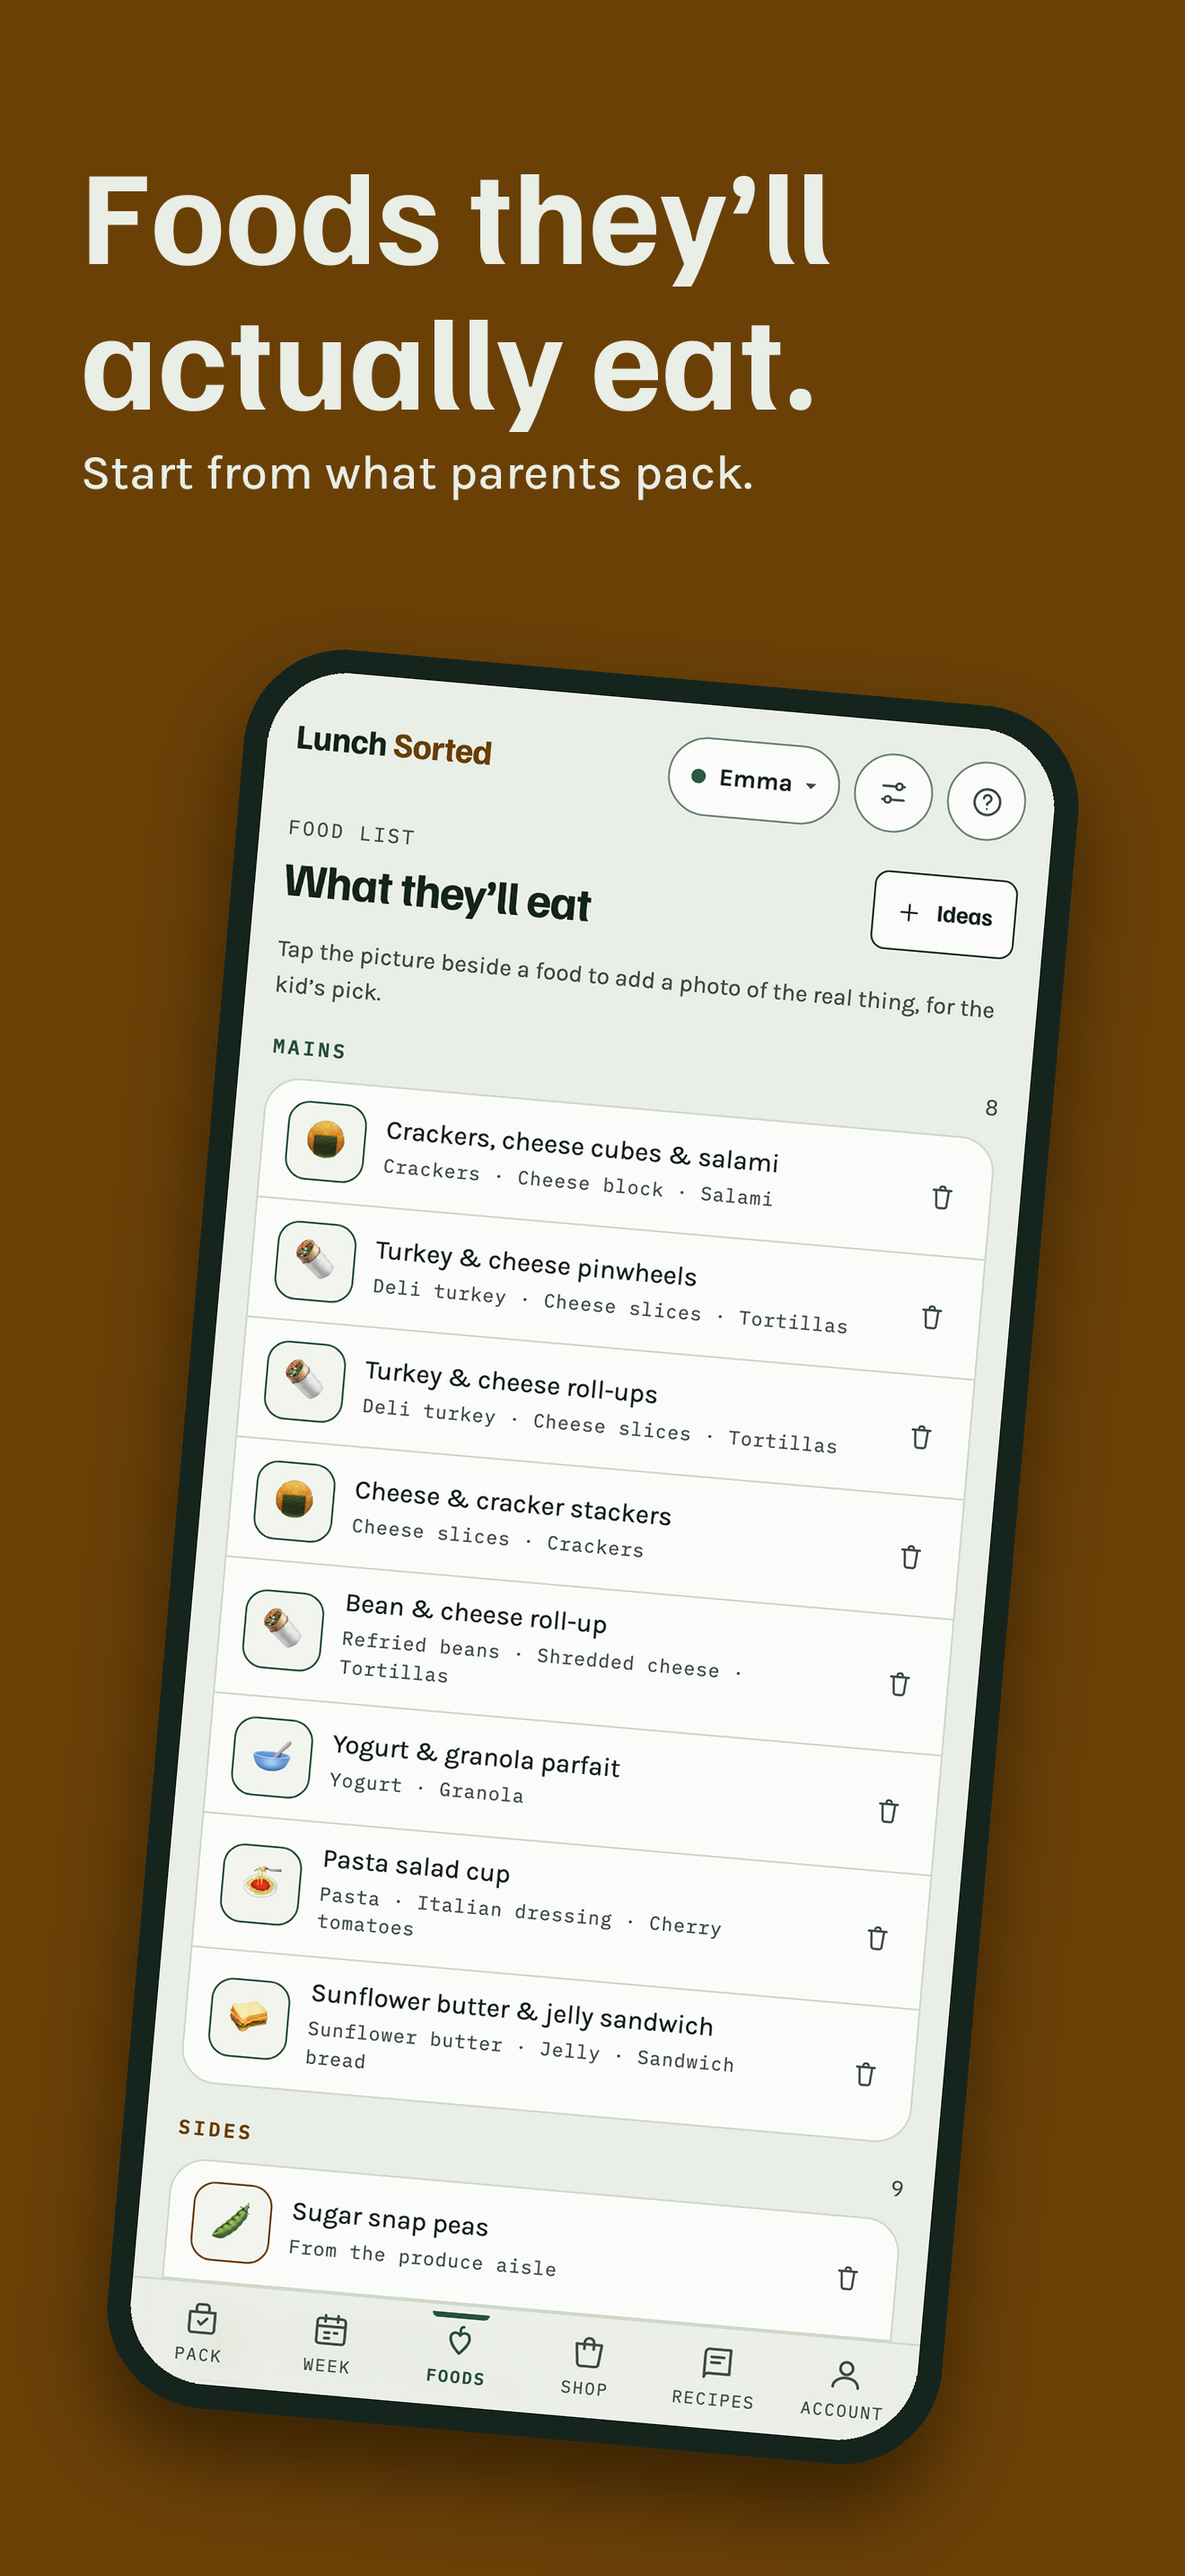
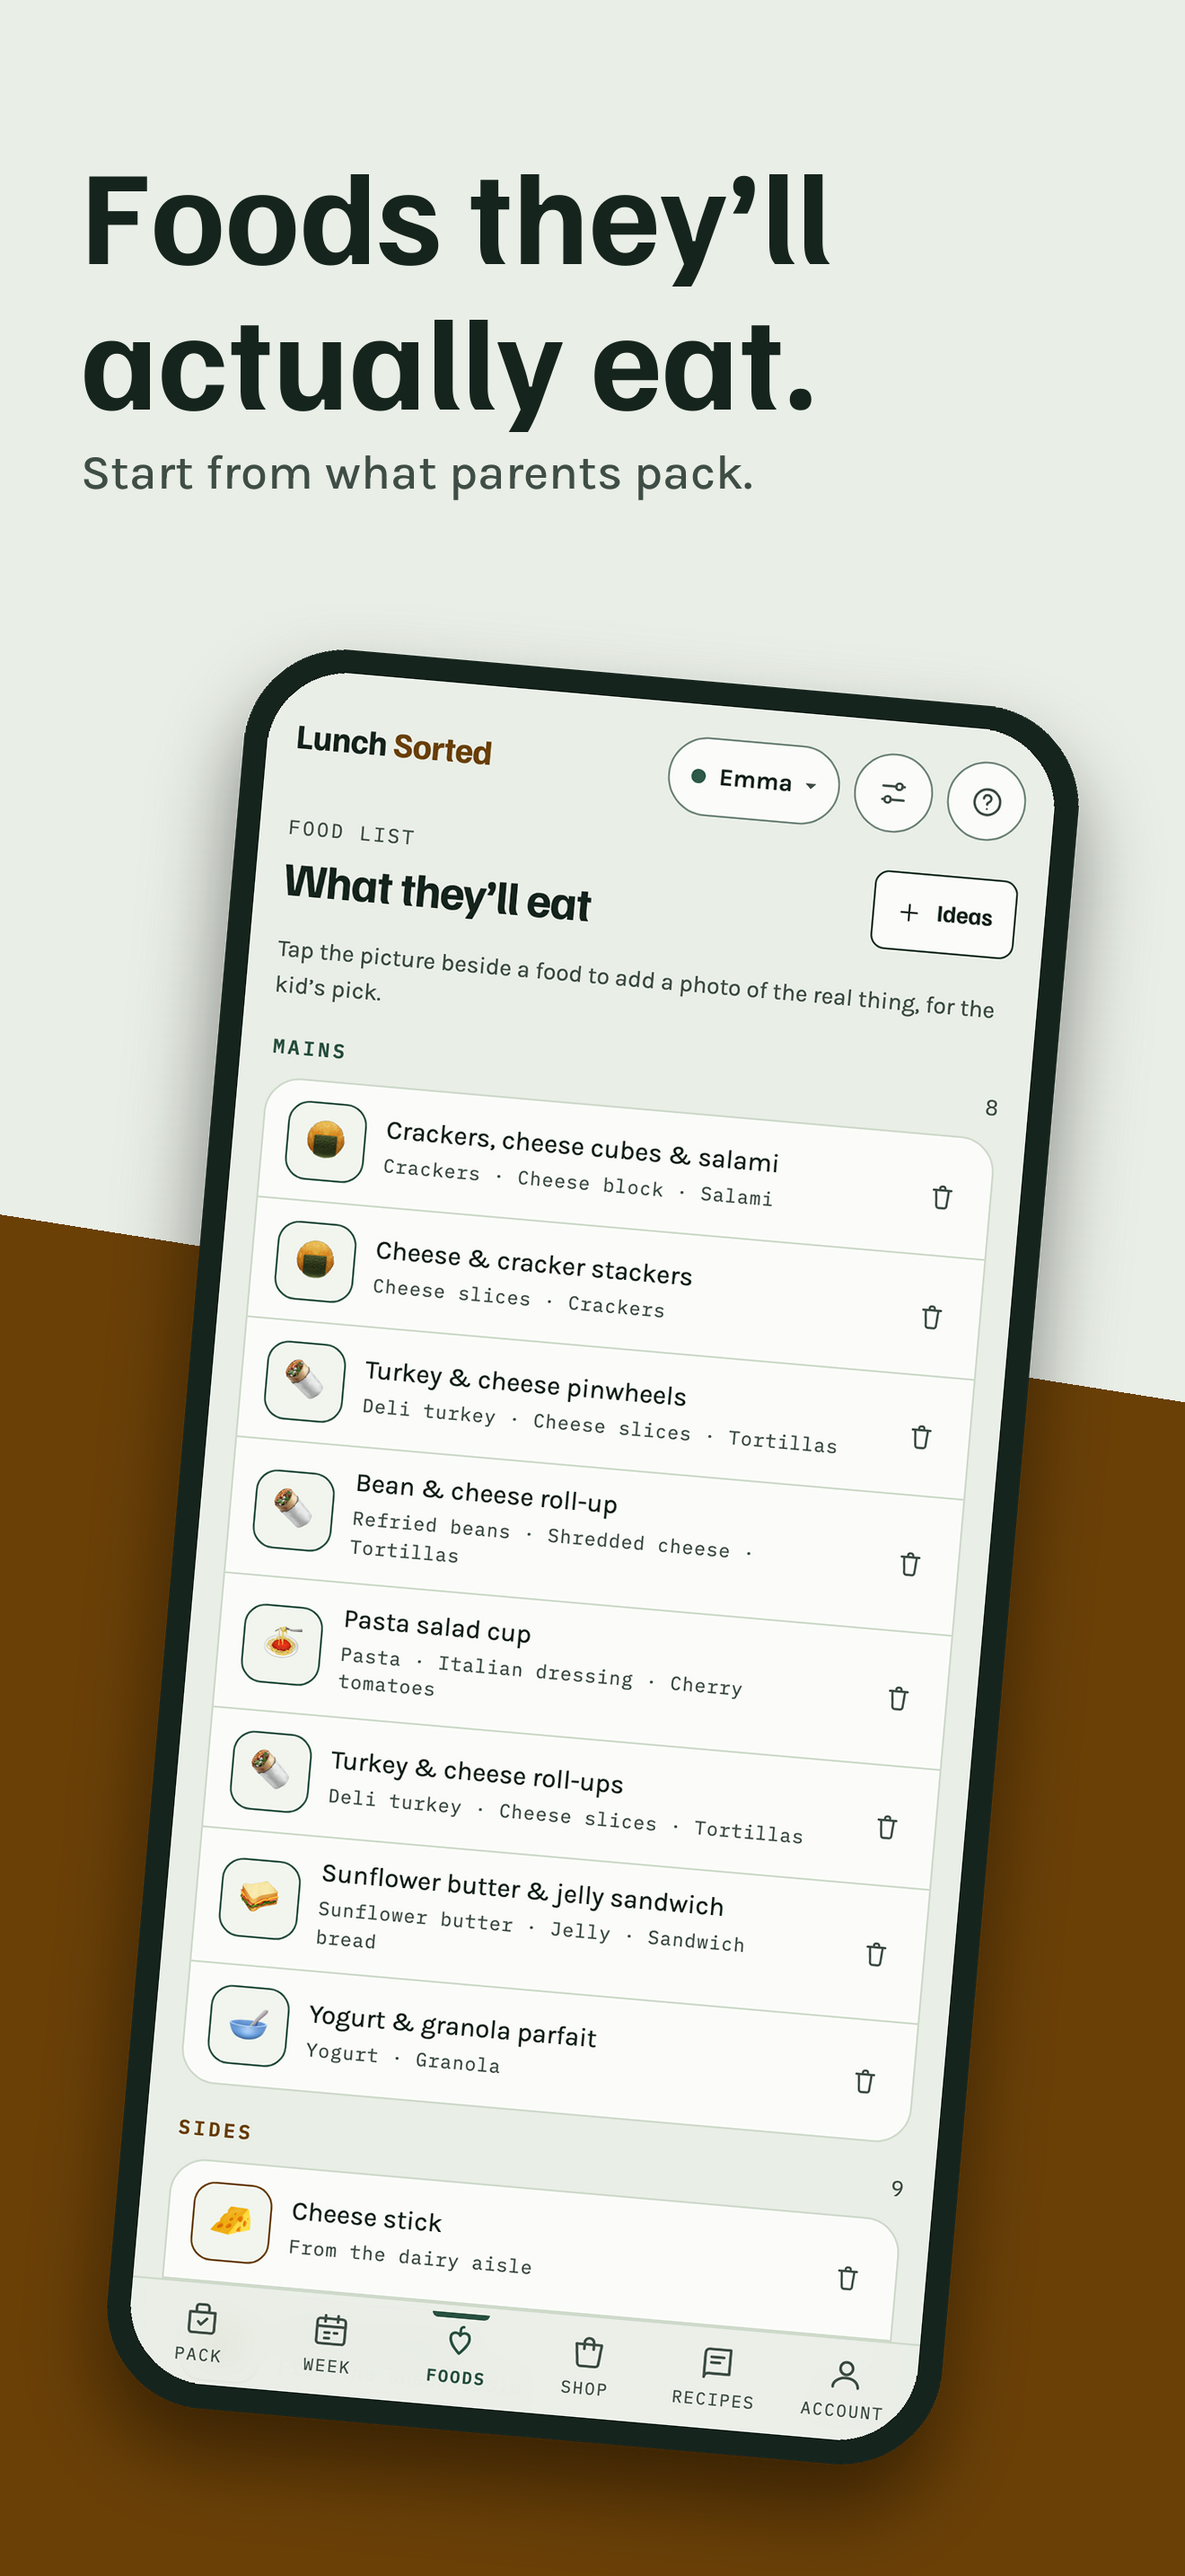
Store: the color goes behind the phone, not over the page
A full-color page read as aggressive. The canvas is the ground color again, the
headline ink, and a tilted slab of the compartment color sits behind the lower
half of the phone, running off the sides and the bottom.

diff --git a/scripts/store-compose.py b/scripts/store-compose.py
@@ -9,8 +9,9 @@ import os
 
 OUT = 'store/screenshots'
 W, H = 1320, 2868
-GROUND = (0xE9, 0xEE, 0xE6)          # the page color, here the text
-INK = (0x16, 0x24, 0x1E)             # the bezel
+GROUND = (0xE9, 0xEE, 0xE6)          # the page color, the canvas
+INK = (0x16, 0x24, 0x1E)             # the headline and the bezel
+INK2 = (0x3E, 0x4D, 0x45)            # the line under the headline
 # The compartment colors (HANDBOOK.md, The brand): main, side, fruit, sweet, snack, drink.
 BACKS = [(0x2A, 0x51, 0x41), (0x6A, 0x40, 0x07), (0x84, 0x27, 0x3E), (0x50, 0x3E, 0x7E), (0x44, 0x4E, 0x14), (0x20, 0x4E, 0x62)]
 HEAD_FONT = 'store/FamiljenGrotesk-Bold.ttf'
@@ -75,21 +76,31 @@ def phone(shot):
     layer.alpha_composite(screen, (pad + BEZEL, pad + BEZEL))
     return layer
 
+def slab(canvas, color, sign):
+    """A compartment-colored slab behind the lower part of the phone, tilted the phone's way
+    and running off the sides and the bottom: color behind the phone, not all over the page."""
+    layer = Image.new('RGBA', (int(W * 1.6), int(H * 0.8)), (0, 0, 0, 0))
+    ImageDraw.Draw(layer).rounded_rectangle([0, 0, layer.width - 1, layer.height - 1], 140, fill=color + (255,))
+    layer = layer.rotate(sign * 9, resample=Image.BICUBIC, expand=True)
+    canvas.paste(layer, ((W - layer.width) // 2, int(H * 0.46)), layer)
+
 for i, (raw, name, head, sub) in enumerate(SHOTS):
     src = os.path.join(OUT, 'raw-' + raw + '.png')
     if not os.path.exists(src): print('missing', src); continue
     shot = Image.open(src).convert('RGB')
     if raw in CROP_TOP: shot = shot.crop((0, CROP_TOP[raw], shot.width, shot.height))
     if raw in CROP_BOT: shot = shot.crop((0, 0, shot.width, shot.height - CROP_BOT[raw]))
-    canvas = Image.new('RGB', (W, H), BACKS[i % len(BACKS)]); d = ImageDraw.Draw(canvas)
+    canvas = Image.new('RGB', (W, H), GROUND); d = ImageDraw.Draw(canvas)
     font, lines, size = headline(d, head, W - 2 * MARGIN)
     y = 140
     for line in lines:
-        d.text((MARGIN, y), line, font=font, fill=GROUND); y += int(size * 1.08)
+        d.text((MARGIN, y), line, font=font, fill=INK); y += int(size * 1.08)
     y += 30
     for line in wrap(d, sub, SUB, W - 2 * MARGIN):
-        d.text((MARGIN, y), line, font=SUB, fill=GROUND); y += 68
-    layer = phone(shot).rotate(TILT if i % 2 == 0 else -TILT, resample=Image.BICUBIC, expand=True)
+        d.text((MARGIN, y), line, font=SUB, fill=INK2); y += 68
+    sign = 1 if i % 2 == 0 else -1
+    slab(canvas, BACKS[i % len(BACKS)], sign)
+    layer = phone(shot).rotate(sign * TILT, resample=Image.BICUBIC, expand=True)
     top = max(y + 60, 700)
     canvas.paste(layer, ((W - layer.width) // 2, top - 160), layer)
     canvas.save(os.path.join(OUT, name + '.png'), optimize=True)

diff --git a/store/listing.md b/store/listing.md
@@ -144,9 +144,11 @@ the enrollment, so settle it before launch.
 7. `07-rules.png`: Your school's rules, respected. / Nut free, no microwave, a short lunch. Flagged, never dropped.
 8. `08-foods.png`: Foods they'll actually eat. / Start from what parents pack.
 
-Redesigned 2026-10-28 at Liz's ask (the September set read as a document, not an ad): each
-screen in a phone with a heavy bezel, tilted five degrees, alternating, on one of the brand's
-six compartment colors, under a two-line headline and one short line. The first three are what
+Redesigned 2026-10-28 at Liz's ask (the September set read as a document, not an ad): the
+page stays the ground color with the headline in ink, and each screen sits in a phone with a
+heavy bezel, tilted five degrees, alternating, over a slab of one of the brand's six compartment
+colors that runs off the sides and the bottom (a full-color page read as aggressive; the color
+is behind the phone, not all over). Two-line headline, one short line. The first three are what
 search results show side by side, so the headlines are sized to read at a third of this width.
 
 They live in `screenshots/`, 1320×2868, the 6.9-inch slot, and App Store Connect scales
